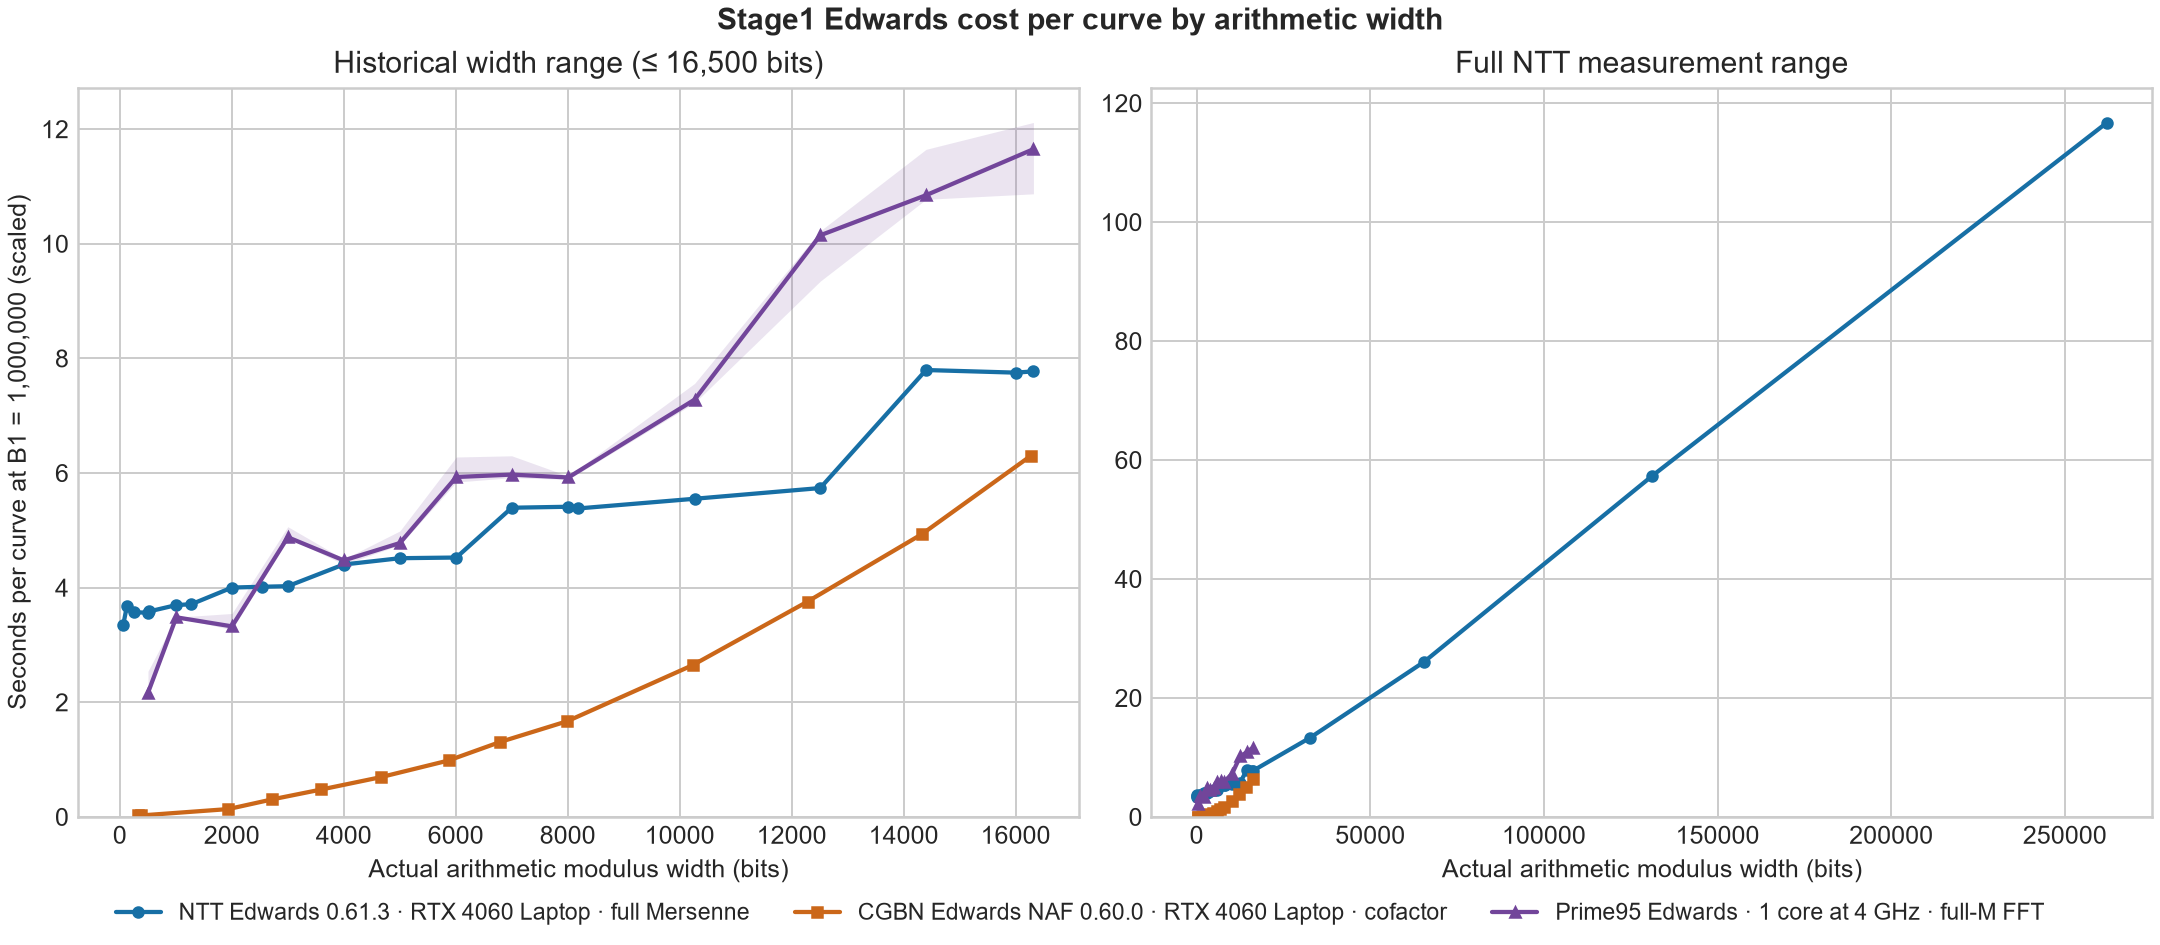
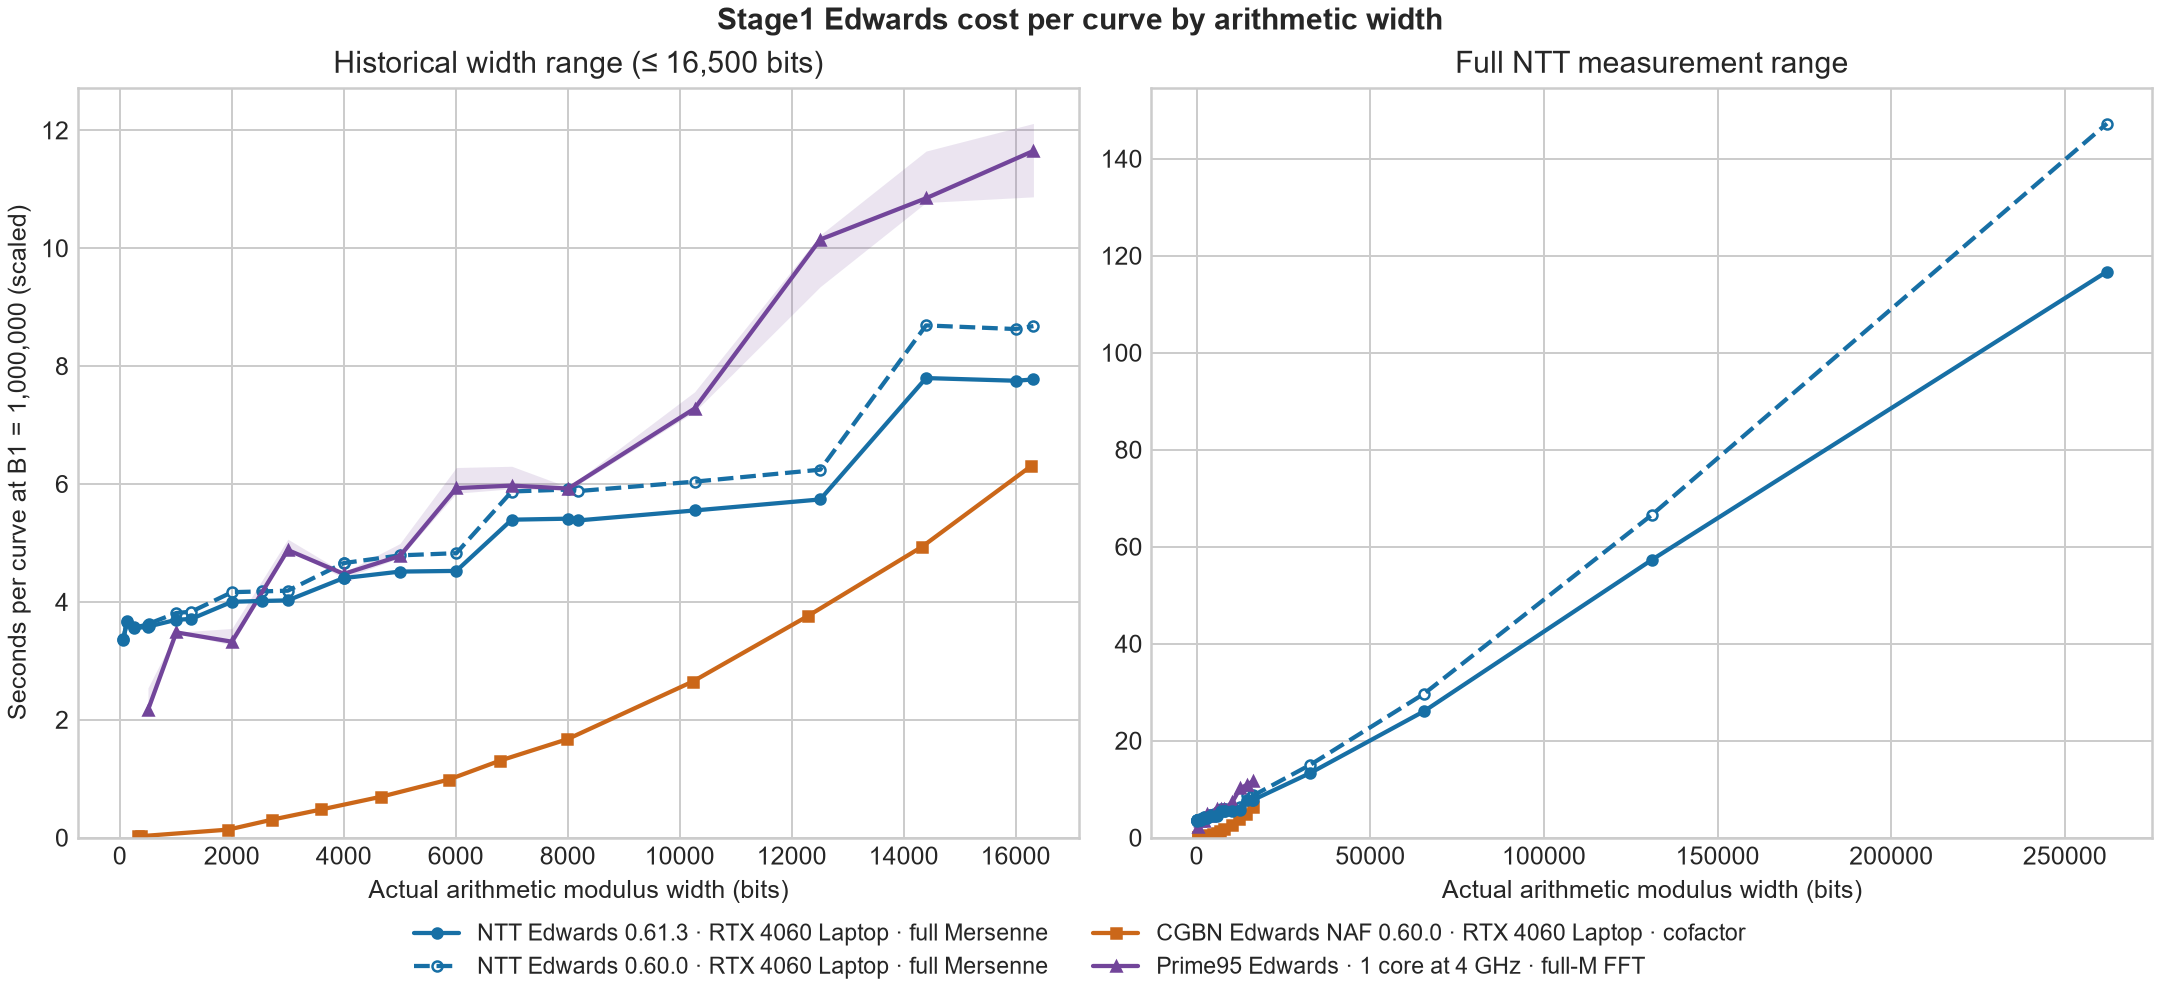
Add baseline data in benchmark.

diff --git a/tools/bench/plot_stage1_ntt_best.py b/tools/bench/plot_stage1_ntt_best.py
@@ -1,5 +1,5 @@
 #!/usr/bin/env python3
-"""Compare measured NTT Stage1 throughput with the historical Montgomery baselines."""
+"""Compare Stage1 NTT measurements with CGBN and Prime95 baselines."""
 import argparse
 import csv
 import json
@@ -12,18 +12,32 @@ matplotlib.use("Agg")
 import matplotlib.pyplot as plt
 
 
-def make_points(ntt, historical):
-    points = {"ntt": [], "cgbn": [], "prime95": []}
-    if ntt["reference_b1"] != historical["target_b1"]:
+def ntt_points(report, target_b1):
+    if report["reference_b1"] != target_b1:
         raise ValueError("benchmark B1 projections differ")
-    if sorted(g["p"] for g in ntt["groups"]) != sorted(ntt["exponents"]):
-        raise ValueError("NTT benchmark is incomplete")
+    exponents = [g["p"] for g in report["groups"]]
+    if not exponents or len(set(exponents)) != len(exponents) or sorted(exponents) != sorted(report["exponents"]):
+        raise ValueError("NTT benchmark is incomplete or repeated")
+    points = []
+    for group in report["groups"]:
+        p, samples = group["p"], group["projected_seconds_per_curve_1e6"]
+        points.append((p, p, statistics.median(samples), min(samples), max(samples)))
+    return points
+
+
+def make_points(ntt, historical, previous_ntt=None):
+    target_b1 = historical["target_b1"]
+    points = {"ntt": ntt_points(ntt, target_b1)}
+    if previous_ntt is not None:
+        if any(previous_ntt[key] != ntt[key] for key in ("curve", "gpu_model")):
+            raise ValueError("current and previous NTT must use the same GPU model and curve construction")
+        points["ntt_previous"] = ntt_points(previous_ntt, target_b1)
+        if sorted(previous_ntt["exponents"]) != sorted(ntt["exponents"]):
+            raise ValueError("current and previous NTT must cover the same exponents")
     cgbn_exponents = [row["exponent"] for row in historical["rows"]]
     if not cgbn_exponents or len(set(cgbn_exponents)) != len(cgbn_exponents) or historical.get("missing_cpu_reference_exponents"):
         raise ValueError("CGBN and Prime95 reference conditions are incomplete or repeated")
-    for group in ntt["groups"]:
-        samples = group["projected_seconds_per_curve_1e6"]
-        points["ntt"].append((group["p"], group["p"], statistics.median(samples), min(samples), max(samples)))
+    points.update(cgbn=[], prime95=[])
     for row in historical["rows"]:
         p, bits = row["exponent"], row["bits"]
         points["cgbn"].append((p, bits, row["projected_gpu_seconds_per_curve_1e6"], None, None))
@@ -33,16 +47,19 @@ def make_points(ntt, historical):
     return {key: sorted(rows, key=lambda r: r[1]) for key, rows in points.items()}
 
 
-def plot(points, output, logarithmic, curve, device, ntt_version, cgbn_version):
+def plot(points, output, logarithmic, curve, device, ntt_version, cgbn_version, previous_version=None):
     label = "Edwards" if curve == "ed" else "Montgomery"
     scheme = "Edwards" if curve == "ed" else "PARAM0"
+    ntt_color = "#176fa5"
     styles = {
-        "ntt": (f"NTT {scheme} {ntt_version} · {device} · full Mersenne", "#176fa5", "o"),
+        "ntt": (f"NTT {scheme} {ntt_version} · {device} · full Mersenne", ntt_color, "o"),
+        "ntt_previous": (f"NTT {scheme} {previous_version} · {device} · full Mersenne", ntt_color, "o"),
         "cgbn": (f"CGBN {scheme}{' NAF' if curve == 'ed' else ''} {cgbn_version} · {device} · cofactor", "#cb6719", "s"),
         "prime95": (f"Prime95 {label} · 1 core at 4 GHz · full-M FFT", "#72459a", "^"),
     }
+    overlay = "ntt_previous" in points
     with plt.style.context("seaborn-v0_8-whitegrid"):
-        fig, axes = plt.subplots(1, 2, figsize=(12, 5.25), layout="constrained")
+        fig, axes = plt.subplots(1, 2, figsize=(12, 5.55 if overlay else 5.25), layout="constrained")
         fig.suptitle(f"Stage1 {label} cost per curve by arithmetic width", fontweight="bold")
         for i, ax in enumerate(axes):
             ax.set_title(("Historical width range (≤ 16,500 bits)", "Full NTT measurement range")[i])
@@ -52,8 +69,11 @@ def plot(points, output, logarithmic, curve, device, ntt_version, cgbn_version):
                     continue
                 _, x, y, lo, hi = zip(*visible)
                 label, color, marker = styles[key]
-                ax.plot(x, y, label=label, color=color, marker=marker, markersize=4, linewidth=1.7)
-                if all(value is not None for value in lo + hi):
+                previous = key == "ntt_previous"
+                ax.plot(x, y, label=label, color=color, marker=marker, markersize=4, linewidth=1.7,
+                        linestyle="--" if previous else "-", markerfacecolor="none" if previous else color,
+                        zorder=3 if key == "ntt" else 2)
+                if not previous and all(value is not None for value in lo + hi):
                     ax.fill_between(x, lo, hi, color=color, alpha=.14, linewidth=0)
             ax.set_xlabel("Actual arithmetic modulus width (bits)")
             if logarithmic:
@@ -65,7 +85,7 @@ def plot(points, output, logarithmic, curve, device, ntt_version, cgbn_version):
                 ax.ticklabel_format(style="plain", axis="x")
         axes[0].set_ylabel("Seconds per curve at B1 = 1,000,000 (scaled)")
         handles, labels = axes[1].get_legend_handles_labels()
-        fig.legend(handles, labels, loc="outside lower center", ncols=3, fontsize=9, frameon=False)
+        fig.legend(handles, labels, loc="outside lower center", ncols=2 if overlay else 3, fontsize=9, frameon=False)
         fig.savefig(output, dpi=180)
         plt.close(fig)
 
@@ -73,6 +93,7 @@ def plot(points, output, logarithmic, curve, device, ntt_version, cgbn_version):
 def main():
     parser = argparse.ArgumentParser(description=__doc__)
     parser.add_argument("--ntt", required=True, type=Path)
+    parser.add_argument("--previous-ntt", type=Path, help="Overlay the preceding NTT benchmark as a dashed line")
     parser.add_argument("--comparison", "--historical", required=True, type=Path)
     parser.add_argument("--output", required=True, type=Path)
     args = parser.parse_args()
@@ -81,12 +102,17 @@ def main():
     if ntt["gpu_model"] != comparison["gpu_model"] or comparison["model"] != ("ed" if curve == "ed" else "mont0"):
         parser.error("CGBN and NTT must use the same GPU model and curve construction")
     device = ntt["gpu_model"].removeprefix("NVIDIA GeForce ").removesuffix(" GPU")
-    points = make_points(ntt, comparison)
+    previous = json.loads(args.previous_ntt.read_text(encoding="utf-8-sig")) if args.previous_ntt else None
+    try:
+        points = make_points(ntt, comparison, previous)
+    except ValueError as error:
+        parser.error(str(error))
+    previous_version = previous["version"].removeprefix("ECM-ELF ") if previous is not None else None
     args.output.mkdir(parents=True, exist_ok=True)
     prefix = "stage1-edwards-ntt-cgbn-prime95" if curve == "ed" else "stage1-ntt-best-cgbn-prime95"
     for suffix in ("log", "linear"):
         plot(points, args.output / f"{prefix}-{suffix}.png", suffix == "log", curve, device,
-             ntt["version"].removeprefix("ECM-ELF "), comparison.get("program_version", ""))
+             ntt["version"].removeprefix("ECM-ELF "), comparison.get("program_version", ""), previous_version)
     with (args.output / "comparison.csv").open("w", encoding="utf-8", newline="") as f:
         writer = csv.writer(f)
         writer.writerow(("series", "mersenne_exponent", "arithmetic_bits", "median_s_per_curve_at_1e6",
